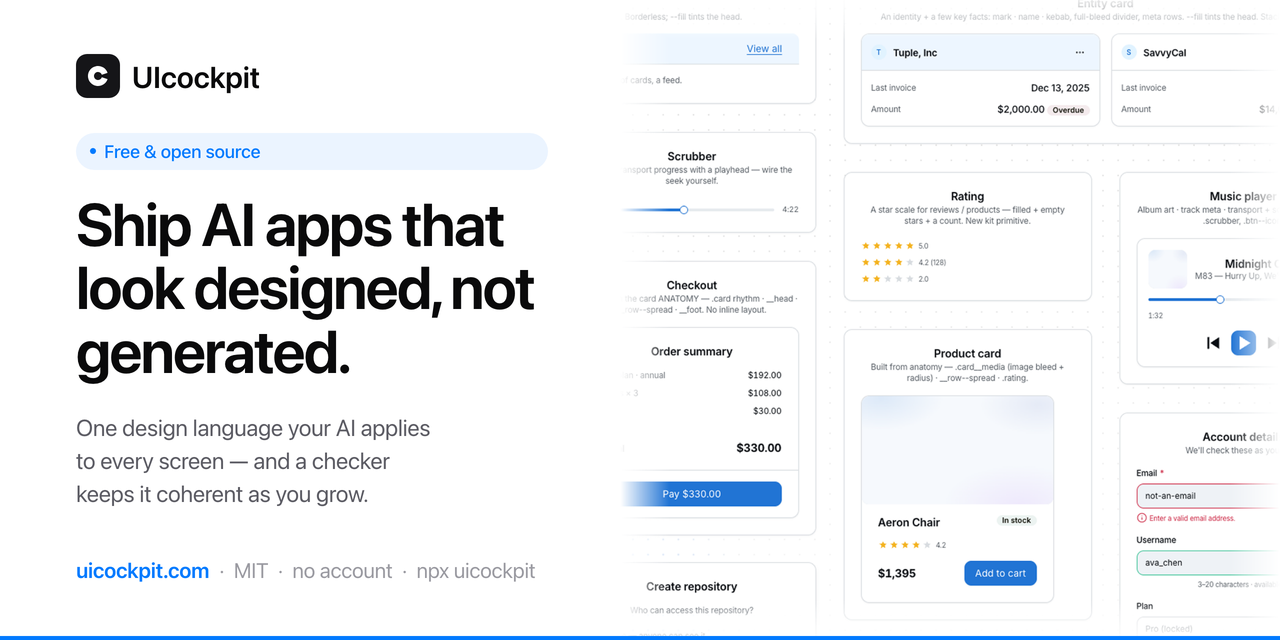
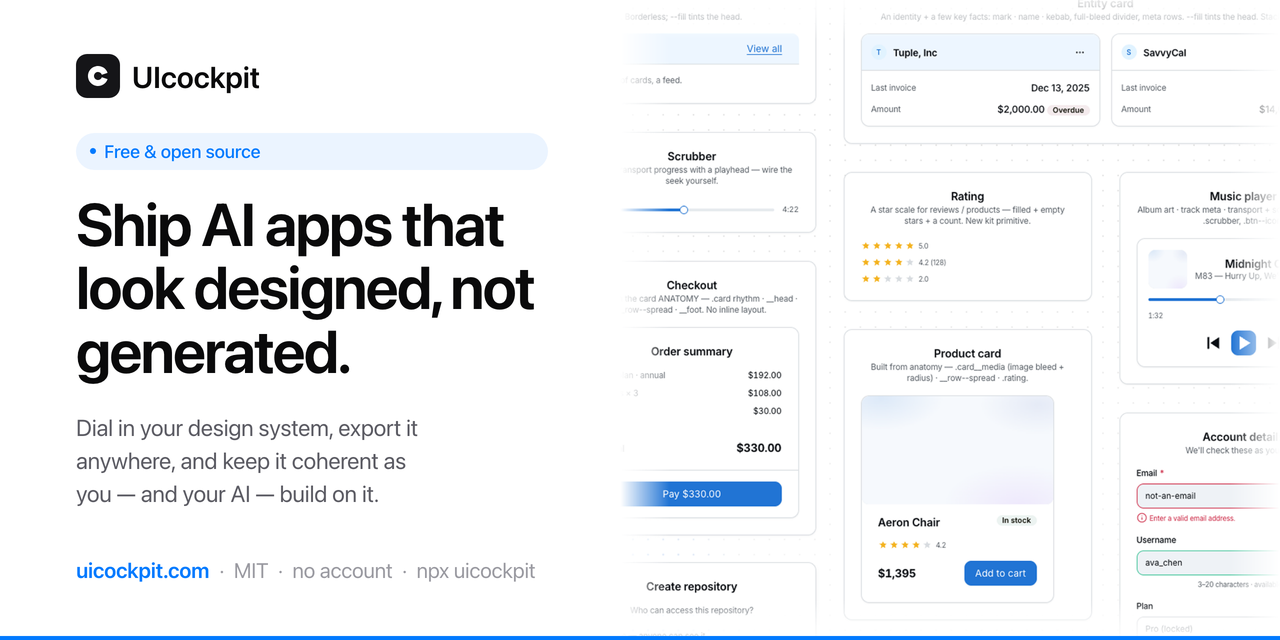
copy: rebalance the story across hero, manifesto, README + OG card — lead with the configurator core (dial in your UI, export it, keep it up to date behind one link), with the AI/check as the second half (headline + tables unchanged)

Changed region(s): [[0.0625, 0.6562, 0.3438, 0.8125]]

diff --git a/cockpit/src/marketing/MarketingManifesto.tsx b/cockpit/src/marketing/MarketingManifesto.tsx
@@ -66,15 +66,22 @@ export function MarketingManifesto({ onLaunch, onDocs, navigate }: MarketingMani
 
         <h2>So here's the idea</h2>
         <p className="mkt__manifesto-lead">
-          You set your design language once, and your AI applies it to everything it builds —
-          even the screens you never thought to make.
+          You design your UI once — turn every knob until it's yours — and then keep it that way.
         </p>
         <p>
-          Concretely: you tune colour, type, shape, spacing and motion into a small set of
-          framework-neutral tokens — about a minute, no account. Your agent builds from those
-          instead of guessing. And <code>npx uicockpit check</code> flags anything that drifts
-          off them — a hardcoded colour, an off-grid size, a one-off component — so the whole
-          app stays coherent as it grows. Configure once; stay coherent everywhere.
+          Concretely: you tune colour, type, shape, spacing and motion in a small visual
+          configurator — a full component gallery updates as you go — until it looks right,
+          about a minute, no account. Then you export it as a framework-neutral kit (tokens +
+          component recipes) and drop it into any stack. And it isn't a one-time download: host
+          it behind a link, come back to re-tune it later, and every app on that link restyles —
+          so your system stays up to date instead of going stale in a folder.
+        </p>
+        <p>
+          Because it's a real, machine-readable contract, it also <em>holds</em>. Your agent
+          builds new screens from it instead of guessing, and <code>npx uicockpit check</code>{' '}
+          flags anything that drifts off it — a hardcoded colour, an off-grid size, a one-off
+          component. Whether the drift is an AI next session or you six months later, the whole
+          thing stays coherent as it grows. Configure once; stay coherent everywhere.
         </p>
 
         <h2>Why it matters more now</h2>

diff --git a/cockpit/src/marketing/MarketingPage.tsx b/cockpit/src/marketing/MarketingPage.tsx
@@ -84,11 +84,10 @@ export function MarketingPage({ onLaunch, navigate }: MarketingPageProps) {
           </div>
           <h1>Ship AI apps that look designed, not generated.</h1>
           <p className="mkt__hero-sub">
-            AI ships a working app in minutes — then you lose days tweaking, and it still
-            looks like every other AI app. UIcockpit gives your AI{' '}
-            <strong>one design language to apply to every screen</strong>: colour, type,
-            shape and motion as framework-neutral tokens, with a checker that keeps it all
-            coherent as you grow.
+            Dial in your design language — colour, type, shape and motion — preview it live,
+            and export it as <strong>framework-neutral tokens + components</strong> you drop
+            into any app and keep tweaking behind one link. Then hand it to your AI, and a
+            checker keeps every new screen on it instead of drifting back to generic.
           </p>
           <div className="mkt__hero-ctas">
             <button className="mkt-btn mkt-btn--primary mkt-btn--lg" onClick={onLaunch}>

diff --git a/cockpit/src/marketing/OgCard.tsx b/cockpit/src/marketing/OgCard.tsx
@@ -24,8 +24,8 @@ export function OgCard() {
         <h1 className="og-card__h1">Ship AI apps that look designed, not generated.</h1>
 
         <p className="og-card__sub">
-          One design language your AI applies to every screen — and a checker keeps it
-          coherent as you grow.
+          Dial in your design system, export it anywhere, and keep it coherent as
+          you — and your AI — build on it.
         </p>
 
         <div className="og-card__foot">

diff --git a/MANIFESTO.md b/MANIFESTO.md
@@ -26,14 +26,21 @@ need something nobody designed yet.
 
 ## So here's the idea
 
-**You set your design language once, and your AI applies it to everything it builds
-— even the screens you never thought to make.**
+**You design your UI once — turn every knob until it's yours — and then keep it
+that way.**
 
-Concretely: you tune colour, type, shape, spacing and motion into a small set of
-framework-neutral tokens — about a minute, no account. Your agent builds from those
-instead of guessing. And `npx uicockpit check` flags anything that drifts off them
-— a hardcoded colour, an off-grid size, a one-off component — so the whole app stays
-coherent as it grows. Configure once; stay coherent everywhere.
+Concretely: you tune colour, type, shape, spacing and motion in a small visual
+configurator — a full component gallery updates as you go — until it looks right,
+about a minute, no account. Then you export it as a framework-neutral kit (tokens +
+component recipes) and drop it into any stack. And it isn't a one-time download:
+host it behind a link, come back to re-tune it later, and every app on that link
+restyles — so your system stays up to date instead of going stale in a folder.
+
+Because it's a real, machine-readable contract, it also *holds*. Your agent builds
+new screens from it instead of guessing, and `npx uicockpit check` flags anything
+that drifts off it — a hardcoded colour, an off-grid size, a one-off component.
+Whether the drift is an AI next session or you six months later, the whole thing
+stays coherent as it grows. Configure once; stay coherent everywhere.
 
 ## Why it matters more now
 

diff --git a/README.md b/README.md
@@ -4,10 +4,11 @@
 
 ### A design system your AI actually keeps to.
 
-**Configure a design language once — then your coding agent builds on it, and
-`uicockpit check` makes sure it *stays* on it.** Framework-neutral `--k-*` tokens +
-100+ components (real recipes with state contracts), delivered as a hosted `<link>`, a
-download, or natively inside your agent (CLI + MCP).
+**Dial in your design language visually, export it framework-neutral, and keep it up
+to date behind one link — then hand it to your coding agent and `uicockpit check`
+makes sure it *stays* on it.** Framework-neutral `--k-*` tokens + 100+ components (real
+recipes with state contracts), delivered as a hosted `<link>`, a download, or natively
+inside your agent (CLI + MCP).
 
 **Free · no account · paste it anywhere.**
 